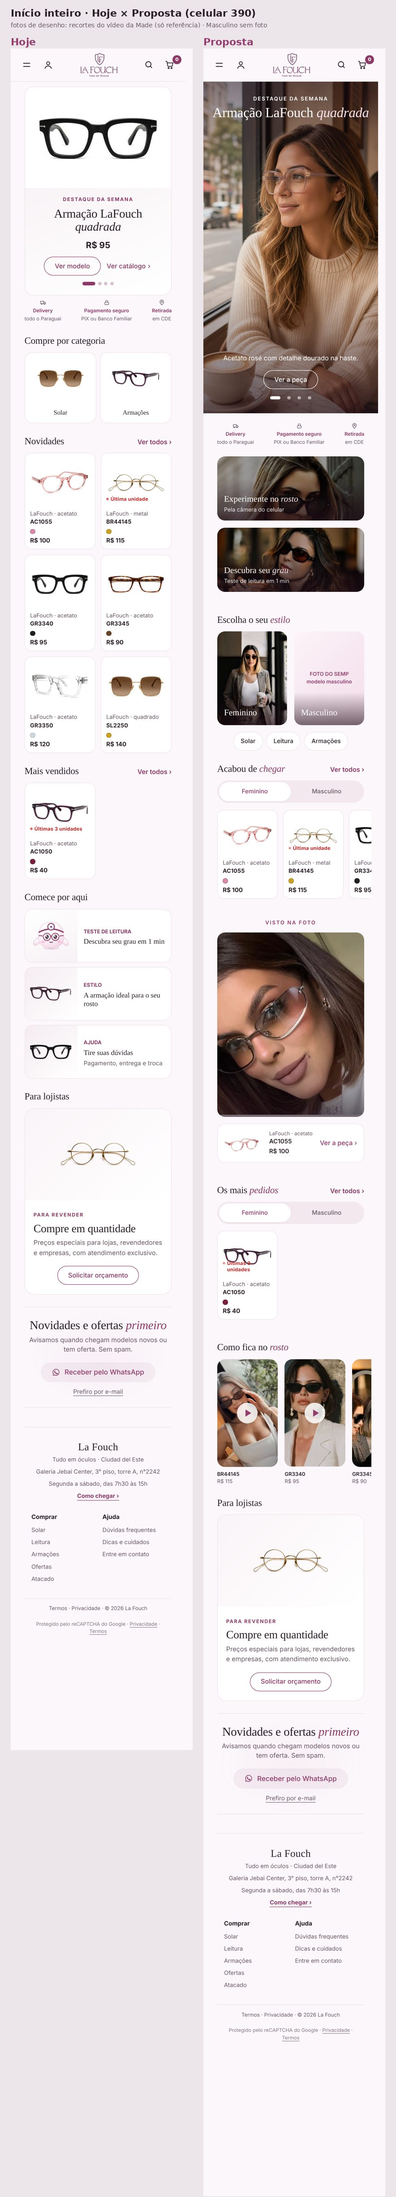
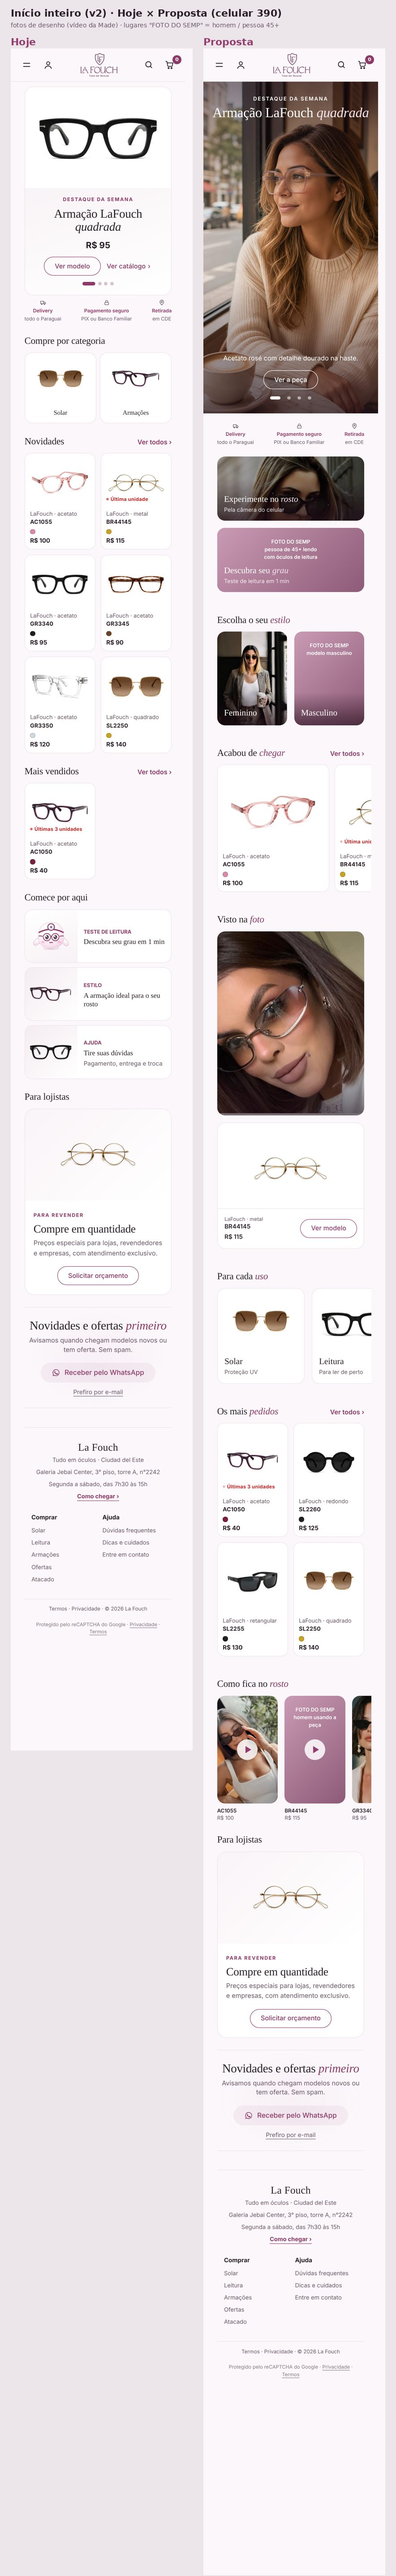
IDEIAS 18 v2: peças grandes, um controle só, fotos por público
Claude-Session: https://claude.ai/code/session_01PcXkKhex4mkp1bqD2Nmug8

Changed region(s): [[0.0305, 0.0, 0.9774, 0.9375], [0.1833, 0.6562, 0.3054, 0.7188], [0.0916, 0.6875, 0.1222, 0.7188]]

diff --git a/work/ideias/18-inicio-inteiro/proposta.js b/work/ideias/18-inicio-inteiro/proposta.js
@@ -20,29 +20,36 @@ main > .wrap{min-width:0;max-width:100%}#home{min-width:0}  /* as fileiras que d
 .lfx-ft .vb{position:absolute;left:0;right:0;bottom:0;height:35%;background:linear-gradient(#1f0d1700,#1f0d1799)}
 .lfx-ft b{position:absolute;left:16px;right:16px;bottom:16px;font:500 20px/1.2 Fraunces,Georgia,serif}
 .lfx-ft small{display:block;font:13px/1.4 Inter,system-ui;opacity:.9;margin-top:4px}
-.lfx-semp{position:absolute;inset:0;display:flex;align-items:center;justify-content:center;text-align:center;padding:16px;background:linear-gradient(135deg,#fcf3f8,#f2dce8);color:#943d6f;font:600 12px/1.5 Inter,system-ui}
+.lfx-semp{position:absolute;inset:0;display:flex;align-items:flex-start;justify-content:center;text-align:center;padding:24px 16px;background:linear-gradient(135deg,#c99ab3,#8d5a77);color:#fff;font:600 12px/1.5 Inter,system-ui}
 #home .lfx-gen{display:grid;grid-template-columns:repeat(2,minmax(0,1fr));gap:16px}
+#home .lfx-fer .lfx-semp{z-index:0}
 #home .lfx-gen .lfx-ft{aspect-ratio:3/4}
-#home .lfx-tip{display:flex;gap:8px;justify-content:center;margin-top:16px}
-#home .lfx-tip a{height:44px;display:inline-flex;align-items:center;padding:0 16px;border:1px solid #efe3ea;background:#fff;border-radius:999px;font:500 14px Inter,system-ui;color:#2a1f27;text-decoration:none}
-/* escolha de dois lados (regra 15) */
-#home .lfx-2l{display:flex;padding:4px;background:#f4e8ef;border-radius:999px;margin:0 0 16px}
-#home .lfx-2l button{flex:1;height:44px;border:0;border-radius:999px;background:transparent;font:500 14px Inter,system-ui;color:#6b5a66}
-#home .lfx-2l button.on{background:#fff;color:#943d6f;box-shadow:0 1px 2px #2a1f2714}
-/* listas deslizam: 2 por tela + a ponta do próximo */
-#home .hg.lfx-desl{display:flex!important;gap:16px;overflow-x:auto;scroll-snap-type:x mandatory;scrollbar-width:none;margin-right:-16px;padding-right:16px}
-#home .hg.lfx-desl::-webkit-scrollbar{display:none}
-#home .hg.lfx-desl > *{flex:0 0 calc((100% - 32px) / 2.2)!important;scroll-snap-align:start}
 /* visto na foto: a foto e, FORA dela, a peça */
 #home .lfx-visto .lfx-ft{aspect-ratio:4/5}
 #home .lfx-rot{font:600 12px Inter,system-ui;letter-spacing:.16em;text-transform:uppercase;color:#943d6f;text-align:center;margin:0 0 16px}
-#home .lfx-peca{display:flex;align-items:center;gap:16px;margin-top:16px;padding:8px 16px 8px 8px;background:#fff;border:1px solid #efe3ea;border-radius:18px}
-#home .lfx-peca .hci{flex:0 0 96px!important;width:96px!important;height:72px!important}
-#home .lfx-peca .tx{flex:1;min-width:0}
-#home .lfx-peca i{font-style:normal;color:#943d6f;font:500 15px Inter,system-ui;white-space:nowrap}
+/* peças GRANDES: carrossel de 1,25 por tela (acabou de chegar) e grade 2 × 2 (mais pedidos) */
+#home .hg.lfx-grande{display:flex!important;gap:16px;overflow-x:auto;scroll-snap-type:x mandatory;scrollbar-width:none;margin-right:-16px;padding-right:16px}
+#home .hg.lfx-grande::-webkit-scrollbar{display:none}
+#home .hg.lfx-grande > *{flex:0 0 calc((100% - 16px) / 1.25)!important;scroll-snap-align:start}
+#home .hg.lfx-grande .hci{aspect-ratio:4/3;height:auto!important}
+#home .hg.lfx-grade{display:grid!important;grid-template-columns:repeat(2,minmax(0,1fr))!important;gap:16px}
+#home .hg.lfx-grande .hci img,#home .hg.lfx-grade .hci img{width:100%!important;height:100%!important;max-width:none!important;max-height:none!important;object-fit:contain;padding:8px;box-sizing:border-box}
+#home .hg.lfx-grade .hci{aspect-ratio:1/1;height:auto!important}
+/* visto na foto: a peça em tamanho de vitrine, abaixo da foto */
+#home .lfx-visto .lfx-pg{margin-top:16px;background:#fff;border:1px solid #efe3ea;border-radius:18px;overflow:hidden}
+#home .lfx-pg .im{display:block;aspect-ratio:16/9;padding:16px;box-sizing:border-box}#home .lfx-pg .im img{width:100%;height:100%;object-fit:contain}
+#home .lfx-pg .rw{display:flex;align-items:center;justify-content:space-between;gap:16px;padding:16px;border-top:1px solid #efe3ea}
+#home .lfx-pg small{display:block;font:12px/1.4 Inter,system-ui;color:#6b5a66}#home .lfx-pg b{display:block;font:600 14px/1.4 Inter,system-ui;color:#2a1f27}#home .lfx-pg span:not(.vm){font:600 14px/1.4 Inter,system-ui;color:#2a1f27}
+#home .lfx-pg .vm{height:44px;display:inline-flex;align-items:center;padding:0 24px;border:1px solid #943d6f;border-radius:999px;color:#943d6f;font:500 15px Inter,system-ui;white-space:nowrap}
+/* para cada uso: vitrine grande que desliza */
+#home .lfx-tipos{display:flex;gap:16px;overflow-x:auto;scrollbar-width:none;margin-right:-16px;padding-right:16px}
+#home .lfx-tipos a{flex:0 0 calc((100% - 16px) / 1.6);background:#fff;border:1px solid #efe3ea;border-radius:18px;overflow:hidden;text-decoration:none;padding-bottom:16px}
+#home .lfx-tipos .im{display:block;aspect-ratio:4/3;padding:16px;box-sizing:border-box}#home .lfx-tipos img{width:100%;height:100%;object-fit:contain}
+#home .lfx-tipos b{display:block;padding:0 16px;font:500 20px/1.2 Fraunces,Georgia,serif;color:#2a1f27}#home .lfx-tipos small{display:block;padding:4px 16px 0;font:13px/1.4 Inter,system-ui;color:#6b5a66}
 /* em movimento */
 #home .lfx-mov{display:flex;gap:16px;overflow-x:auto;scrollbar-width:none;margin-right:-16px;padding-right:16px}
 #home .lfx-mov > div{flex:0 0 calc((100% - 32px) / 2.2)}
+#home .lfx-mov .lfx-semp{font-size:12px}
 #home .lfx-mov .lfx-ft{aspect-ratio:9/16}
 #home .lfx-mov .play{position:absolute;left:50%;top:50%;width:48px;height:48px;margin:-24px 0 0 -24px;border-radius:50%;background:#ffffffd9;display:flex;align-items:center;justify-content:center}
 #home .lfx-mov .play:after{content:'';margin-left:4px;border-left:14px solid #943d6f;border-top:9px solid transparent;border-bottom:9px solid transparent}
@@ -79,29 +86,40 @@ while (host.parentElement && host.parentElement.getBoundingClientRect().width < 
 host.parentElement.insertBefore(cap, host);
 const tb = document.querySelector('.top').getBoundingClientRect().bottom, r = cap.getBoundingClientRect(), pp = getComputedStyle(cap.parentElement);
 cap.style.cssText = `height:${innerHeight - topH}px;margin:${tb - r.top - scrollY}px ${-parseFloat(pp.paddingRight)}px 0 ${-parseFloat(pp.paddingLeft)}px`;
-/* 2. escolha o seu estilo: campanha Feminino | Masculino + os tipos em pílulas (uma grade só, ESTUDO §8/§10) */
-const hc = $('.hcat'); hc.previousElementSibling.querySelector('h2').innerHTML = 'Escolha o seu <em>estilo</em>';
+/* 2. escolha o seu estilo: só Feminino | Masculino (uma decisão; a escolha de gênero aparece UMA vez na página) */
+const hc = $('.hcat'), fotoTipo = {}; hc.querySelectorAll('a').forEach(a => { const m = (a.dataset.mf || '').split(':')[1]; fotoTipo[m] = a.querySelector('img').src; });
+hc.previousElementSibling.querySelector('h2').innerHTML = 'Escolha o seu <em>estilo</em>';
 hc.replaceWith(mk(`<div class=lfx-gen>${ft(F.lanc, 'Feminino', '', 'gen:f')}${ft('', 'Masculino', '', 'gen:m')}</div>`));
-$('.lfx-gen').after(mk(`<div class=lfx-tip><a href="#vitrine" data-mf="tipo:solar">Solar</a><a href="#vitrine" data-mf="tipo:grau">Leitura</a><a href="#vitrine" data-mf="tipo:armacao">Armações</a></div>`));
-/* 3. listas: Feminino | Masculino + deslizam */
+/* 3. acabou de chegar: a peça GRANDE (1,25 por tela), sem botões extras */
 const [sNov, sMv] = $$('.hsh.hsh1'), [gNov, gMv] = $$('.hg');
 sNov.querySelector('h2').innerHTML = 'Acabou de <em>chegar</em>'; sMv.querySelector('h2').innerHTML = 'Os mais <em>pedidos</em>';
-[gNov, gMv].forEach(g => { g.classList.add('lfx-desl'); g.before(mk(`<div class=lfx-2l><button class=on>Feminino</button><button>Masculino</button></div>`)); });
-/* 4. visto na foto (entre as listas): foto grande e, logo abaixo e FORA dela, a peça que a modelo usa */
+sNov.style.marginTop = '48px'; gNov.classList.add('lfx-grande');
+/* 4. visto na foto: foto grande e, logo abaixo e FORA dela, a peça em tamanho de vitrine */
 const dados = c => { const ds = (c.querySelector('.hds') || {}).textContent || '', t = c.innerText, cod = (t.match(/[A-Z]{2}\d{3,5}/) || [''])[0], pr = (t.match(/R\$\s?[\d.,]+/) || [''])[0]; return {ds, cod, pr}; };
-const c1 = gNov.children[0].cloneNode(true), d1 = dados(gNov.children[0]), peca = mk(`<div class=lfx-peca></div>`);
-peca.appendChild(c1.querySelector('.hci')); const tx = mk(`<div class=tx><small style="display:block;font:12px/1.4 Inter,system-ui;color:#6b5a66">${d1.ds}</small><b style="display:block;font:600 14px/1.4 Inter,system-ui;color:#2a1f27">${d1.cod}</b><span style="font:600 14px/1.4 Inter,system-ui;color:#2a1f27">${d1.pr}</span></div>`); peca.append(tx, mk(`<i>Ver a peça ›</i>`));
-const visto = mk(`<div class=lfx-visto style="margin:48px 0"><p class=lfx-rot>Visto na foto</p>${ft(F.retrato, '', '', '')}</div>`); visto.appendChild(peca);
-sMv.before(visto);
-/* 5. em movimento (vídeos curtos do Semp) */
-const mov = mk(`<div><div class=hsh><h2 class=h2>Como fica no <em>rosto</em></h2></div><div class=lfx-mov></div></div>`);
-[F.maisv, F.elas, F.grupo].forEach((s, i) => { const c = gNov.children[i + 1] || gNov.children[0], q = dados(c);
-  mov.querySelector('.lfx-mov').appendChild(mk(`<div><a class=lfx-ft href="#rosto"><img src="${s}" alt=""><span class=play></span></a><p><b>${q.cod}</b>${q.pr}</p></div>`)); });
-$('#hguia').before(mov); mov.style.marginTop = '48px';
-/* 6. as duas ferramentas sobem para logo abaixo dos selos (dono 16:23); "Comece por aqui" sai (Dúvidas vai para o menu/rodapé) */
+const c0 = gNov.children[1] || gNov.children[0], d1 = dados(c0);  /* peça de metal, parecida com a da foto de desenho */
+const visto = mk(`<div class=lfx-visto style="margin:48px 0 0"><div class=hsh><h2 class=h2>Visto na <em>foto</em></h2></div>${ft(F.retrato, '', '', '')}
+  <div class=lfx-pg><div class=im><img src="${c0.querySelector('.hci img').src}" alt=""></div><div class=rw><div><small>${d1.ds}</small><b>${d1.cod}</b><span>${d1.pr}</span></div><span class=vm>Ver modelo</span></div></div></div>`);
+gNov.after(visto);
+/* 5. para cada uso: Solar · Leitura · Armações como vitrine grande (a peça é a estrela) */
+const tipos = mk(`<div style="margin-top:48px"><div class=hsh><h2 class=h2>Para cada <em>uso</em></h2></div><div class=lfx-tipos></div></div>`);
+[['solar', 'Solar', 'Proteção UV'], ['grau', 'Leitura', 'Para ler de perto'], ['armacao', 'Armações', 'Para a sua receita']].forEach(([k, n, sub]) => {
+  const src = fotoTipo[k] || '/media/i/b0ce33cc336d.jpg';
+  tipos.querySelector('.lfx-tipos').appendChild(mk(`<a href="#vitrine" data-mf="tipo:${k}"><span class=im><img src="${src}" alt=""></span><b>${n}</b><small>${sub}</small></a>`)); });
+visto.after(tipos);
+/* 6. os mais pedidos: outro formato (grade 2 × 2 de peças grandes) — não repete o carrossel */
+sMv.style.marginTop = '48px'; gMv.classList.add('lfx-grade');
+for (let i = 0; gMv.children.length < 4 && i < gNov.children.length; i++) gMv.appendChild(gNov.children[gNov.children.length - 1 - i].cloneNode(true)); /* peças de teste: completa 4 */
+/* 7. como fica no rosto: mulheres e homens, de idades diferentes (vídeos do Semp) */
+const mov = mk(`<div style="margin-top:48px"><div class=hsh><h2 class=h2>Como fica no <em>rosto</em></h2></div><div class=lfx-mov></div></div>`);
+[[F.maisv, ''], ['', 'homem usando a peça'], [F.elas, ''], ['', 'pessoa de 45+ com óculos de leitura']].forEach(([s, ph], i) => { const c = gNov.children[i % gNov.children.length], q = dados(c);
+  mov.querySelector('.lfx-mov').appendChild(mk(`<div><a class=lfx-ft href="#rosto">${s ? `<img src="${s}" alt="">` : `<span class=lfx-semp>FOTO DO SEMP<br>${ph}</span>`}<span class=play></span></a><p><b>${q.cod}</b>${q.pr}</p></div>`)); });
+$('#hguia').before(mov);
+/* 8. as duas ferramentas logo abaixo dos selos; a foto combina com quem usa (grau de leitura = 45+) */
 const gu = $('.hgu.hcom'), [bGrau, bRosto] = [...gu.children];
 const fer = mk(`<div class=lfx-fer></div>`);
-const ferr = (b, src, t, sub) => { b.classList.add('lfx-ft2'); b.style.backgroundImage = `url(${src})`; b.querySelector('.gt').innerHTML = `<b>${t}</b><small>${sub}</small>`; fer.appendChild(b); };
-ferr(bRosto, F.design, 'Experimente no <em>rosto</em>', 'Pela câmera do celular'); ferr(bGrau, F.conforto, 'Descubra seu <em>grau</em>', 'Teste de leitura em 1 min');
+const ferr = (b, src, ph, t, sub) => { b.classList.add('lfx-ft2'); if (src) b.style.backgroundImage = `url(${src})`; else b.insertAdjacentHTML('afterbegin', `<span class=lfx-semp>FOTO DO SEMP<br>${ph}</span>`);
+  b.querySelector('.gt').innerHTML = `<b>${t}</b><small>${sub}</small>`; fer.appendChild(b); };
+ferr(bRosto, F.design, '', 'Experimente no <em>rosto</em>', 'Pela câmera do celular');
+ferr(bGrau, '', 'pessoa de 45+ lendo<br>com óculos de leitura', 'Descubra seu <em>grau</em>', 'Teste de leitura em 1 min');
 $('.htr').after(fer); $('#hguia').remove(); gu.remove();
 return 'ok'})()

diff --git a/work/ideias/18-inicio-inteiro/proposta.py b/work/ideias/18-inicio-inteiro/proposta.py
@@ -31,29 +31,36 @@ main > .wrap{min-width:0;max-width:100%}#home{min-width:0}  /* as fileiras que d
 .lfx-ft .vb{position:absolute;left:0;right:0;bottom:0;height:35%;background:linear-gradient(#1f0d1700,#1f0d1799)}
 .lfx-ft b{position:absolute;left:16px;right:16px;bottom:16px;font:500 20px/1.2 Fraunces,Georgia,serif}
 .lfx-ft small{display:block;font:13px/1.4 Inter,system-ui;opacity:.9;margin-top:4px}
-.lfx-semp{position:absolute;inset:0;display:flex;align-items:center;justify-content:center;text-align:center;padding:16px;background:linear-gradient(135deg,#fcf3f8,#f2dce8);color:#943d6f;font:600 12px/1.5 Inter,system-ui}
+.lfx-semp{position:absolute;inset:0;display:flex;align-items:flex-start;justify-content:center;text-align:center;padding:24px 16px;background:linear-gradient(135deg,#c99ab3,#8d5a77);color:#fff;font:600 12px/1.5 Inter,system-ui}
 #home .lfx-gen{display:grid;grid-template-columns:repeat(2,minmax(0,1fr));gap:16px}
+#home .lfx-fer .lfx-semp{z-index:0}
 #home .lfx-gen .lfx-ft{aspect-ratio:3/4}
-#home .lfx-tip{display:flex;gap:8px;justify-content:center;margin-top:16px}
-#home .lfx-tip a{height:44px;display:inline-flex;align-items:center;padding:0 16px;border:1px solid #efe3ea;background:#fff;border-radius:999px;font:500 14px Inter,system-ui;color:#2a1f27;text-decoration:none}
-/* escolha de dois lados (regra 15) */
-#home .lfx-2l{display:flex;padding:4px;background:#f4e8ef;border-radius:999px;margin:0 0 16px}
-#home .lfx-2l button{flex:1;height:44px;border:0;border-radius:999px;background:transparent;font:500 14px Inter,system-ui;color:#6b5a66}
-#home .lfx-2l button.on{background:#fff;color:#943d6f;box-shadow:0 1px 2px #2a1f2714}
-/* listas deslizam: 2 por tela + a ponta do próximo */
-#home .hg.lfx-desl{display:flex!important;gap:16px;overflow-x:auto;scroll-snap-type:x mandatory;scrollbar-width:none;margin-right:-16px;padding-right:16px}
-#home .hg.lfx-desl::-webkit-scrollbar{display:none}
-#home .hg.lfx-desl > *{flex:0 0 calc((100% - 32px) / 2.2)!important;scroll-snap-align:start}
 /* visto na foto: a foto e, FORA dela, a peça */
 #home .lfx-visto .lfx-ft{aspect-ratio:4/5}
 #home .lfx-rot{font:600 12px Inter,system-ui;letter-spacing:.16em;text-transform:uppercase;color:#943d6f;text-align:center;margin:0 0 16px}
-#home .lfx-peca{display:flex;align-items:center;gap:16px;margin-top:16px;padding:8px 16px 8px 8px;background:#fff;border:1px solid #efe3ea;border-radius:18px}
-#home .lfx-peca .hci{flex:0 0 96px!important;width:96px!important;height:72px!important}
-#home .lfx-peca .tx{flex:1;min-width:0}
-#home .lfx-peca i{font-style:normal;color:#943d6f;font:500 15px Inter,system-ui;white-space:nowrap}
+/* peças GRANDES: carrossel de 1,25 por tela (acabou de chegar) e grade 2 × 2 (mais pedidos) */
+#home .hg.lfx-grande{display:flex!important;gap:16px;overflow-x:auto;scroll-snap-type:x mandatory;scrollbar-width:none;margin-right:-16px;padding-right:16px}
+#home .hg.lfx-grande::-webkit-scrollbar{display:none}
+#home .hg.lfx-grande > *{flex:0 0 calc((100% - 16px) / 1.25)!important;scroll-snap-align:start}
+#home .hg.lfx-grande .hci{aspect-ratio:4/3;height:auto!important}
+#home .hg.lfx-grade{display:grid!important;grid-template-columns:repeat(2,minmax(0,1fr))!important;gap:16px}
+#home .hg.lfx-grande .hci img,#home .hg.lfx-grade .hci img{width:100%!important;height:100%!important;max-width:none!important;max-height:none!important;object-fit:contain;padding:8px;box-sizing:border-box}
+#home .hg.lfx-grade .hci{aspect-ratio:1/1;height:auto!important}
+/* visto na foto: a peça em tamanho de vitrine, abaixo da foto */
+#home .lfx-visto .lfx-pg{margin-top:16px;background:#fff;border:1px solid #efe3ea;border-radius:18px;overflow:hidden}
+#home .lfx-pg .im{display:block;aspect-ratio:16/9;padding:16px;box-sizing:border-box}#home .lfx-pg .im img{width:100%;height:100%;object-fit:contain}
+#home .lfx-pg .rw{display:flex;align-items:center;justify-content:space-between;gap:16px;padding:16px;border-top:1px solid #efe3ea}
+#home .lfx-pg small{display:block;font:12px/1.4 Inter,system-ui;color:#6b5a66}#home .lfx-pg b{display:block;font:600 14px/1.4 Inter,system-ui;color:#2a1f27}#home .lfx-pg span:not(.vm){font:600 14px/1.4 Inter,system-ui;color:#2a1f27}
+#home .lfx-pg .vm{height:44px;display:inline-flex;align-items:center;padding:0 24px;border:1px solid #943d6f;border-radius:999px;color:#943d6f;font:500 15px Inter,system-ui;white-space:nowrap}
+/* para cada uso: vitrine grande que desliza */
+#home .lfx-tipos{display:flex;gap:16px;overflow-x:auto;scrollbar-width:none;margin-right:-16px;padding-right:16px}
+#home .lfx-tipos a{flex:0 0 calc((100% - 16px) / 1.6);background:#fff;border:1px solid #efe3ea;border-radius:18px;overflow:hidden;text-decoration:none;padding-bottom:16px}
+#home .lfx-tipos .im{display:block;aspect-ratio:4/3;padding:16px;box-sizing:border-box}#home .lfx-tipos img{width:100%;height:100%;object-fit:contain}
+#home .lfx-tipos b{display:block;padding:0 16px;font:500 20px/1.2 Fraunces,Georgia,serif;color:#2a1f27}#home .lfx-tipos small{display:block;padding:4px 16px 0;font:13px/1.4 Inter,system-ui;color:#6b5a66}
 /* em movimento */
 #home .lfx-mov{display:flex;gap:16px;overflow-x:auto;scrollbar-width:none;margin-right:-16px;padding-right:16px}
 #home .lfx-mov > div{flex:0 0 calc((100% - 32px) / 2.2)}
+#home .lfx-mov .lfx-semp{font-size:12px}
 #home .lfx-mov .lfx-ft{aspect-ratio:9/16}
 #home .lfx-mov .play{position:absolute;left:50%;top:50%;width:48px;height:48px;margin:-24px 0 0 -24px;border-radius:50%;background:#ffffffd9;display:flex;align-items:center;justify-content:center}
 #home .lfx-mov .play:after{content:'';margin-left:4px;border-left:14px solid #943d6f;border-top:9px solid transparent;border-bottom:9px solid transparent}
@@ -90,30 +97,41 @@ while (host.parentElement && host.parentElement.getBoundingClientRect().width < 
 host.parentElement.insertBefore(cap, host);
 const tb = document.querySelector('.top').getBoundingClientRect().bottom, r = cap.getBoundingClientRect(), pp = getComputedStyle(cap.parentElement);
 cap.style.cssText = `height:${innerHeight - topH}px;margin:${tb - r.top - scrollY}px ${-parseFloat(pp.paddingRight)}px 0 ${-parseFloat(pp.paddingLeft)}px`;
-/* 2. escolha o seu estilo: campanha Feminino | Masculino + os tipos em pílulas (uma grade só, ESTUDO §8/§10) */
-const hc = $('.hcat'); hc.previousElementSibling.querySelector('h2').innerHTML = 'Escolha o seu <em>estilo</em>';
+/* 2. escolha o seu estilo: só Feminino | Masculino (uma decisão; a escolha de gênero aparece UMA vez na página) */
+const hc = $('.hcat'), fotoTipo = {}; hc.querySelectorAll('a').forEach(a => { const m = (a.dataset.mf || '').split(':')[1]; fotoTipo[m] = a.querySelector('img').src; });
+hc.previousElementSibling.querySelector('h2').innerHTML = 'Escolha o seu <em>estilo</em>';
 hc.replaceWith(mk(`<div class=lfx-gen>${ft(F.lanc, 'Feminino', '', 'gen:f')}${ft('', 'Masculino', '', 'gen:m')}</div>`));
-$('.lfx-gen').after(mk(`<div class=lfx-tip><a href="#vitrine" data-mf="tipo:solar">Solar</a><a href="#vitrine" data-mf="tipo:grau">Leitura</a><a href="#vitrine" data-mf="tipo:armacao">Armações</a></div>`));
-/* 3. listas: Feminino | Masculino + deslizam */
+/* 3. acabou de chegar: a peça GRANDE (1,25 por tela), sem botões extras */
 const [sNov, sMv] = $$('.hsh.hsh1'), [gNov, gMv] = $$('.hg');
 sNov.querySelector('h2').innerHTML = 'Acabou de <em>chegar</em>'; sMv.querySelector('h2').innerHTML = 'Os mais <em>pedidos</em>';
-[gNov, gMv].forEach(g => { g.classList.add('lfx-desl'); g.before(mk(`<div class=lfx-2l><button class=on>Feminino</button><button>Masculino</button></div>`)); });
-/* 4. visto na foto (entre as listas): foto grande e, logo abaixo e FORA dela, a peça que a modelo usa */
+sNov.style.marginTop = '48px'; gNov.classList.add('lfx-grande');
+/* 4. visto na foto: foto grande e, logo abaixo e FORA dela, a peça em tamanho de vitrine */
 const dados = c => { const ds = (c.querySelector('.hds') || {}).textContent || '', t = c.innerText, cod = (t.match(/[A-Z]{2}\d{3,5}/) || [''])[0], pr = (t.match(/R\$\s?[\d.,]+/) || [''])[0]; return {ds, cod, pr}; };
-const c1 = gNov.children[0].cloneNode(true), d1 = dados(gNov.children[0]), peca = mk(`<div class=lfx-peca></div>`);
-peca.appendChild(c1.querySelector('.hci')); const tx = mk(`<div class=tx><small style="display:block;font:12px/1.4 Inter,system-ui;color:#6b5a66">${d1.ds}</small><b style="display:block;font:600 14px/1.4 Inter,system-ui;color:#2a1f27">${d1.cod}</b><span style="font:600 14px/1.4 Inter,system-ui;color:#2a1f27">${d1.pr}</span></div>`); peca.append(tx, mk(`<i>Ver a peça ›</i>`));
-const visto = mk(`<div class=lfx-visto style="margin:48px 0"><p class=lfx-rot>Visto na foto</p>${ft(F.retrato, '', '', '')}</div>`); visto.appendChild(peca);
-sMv.before(visto);
-/* 5. em movimento (vídeos curtos do Semp) */
-const mov = mk(`<div><div class=hsh><h2 class=h2>Como fica no <em>rosto</em></h2></div><div class=lfx-mov></div></div>`);
-[F.maisv, F.elas, F.grupo].forEach((s, i) => { const c = gNov.children[i + 1] || gNov.children[0], q = dados(c);
-  mov.querySelector('.lfx-mov').appendChild(mk(`<div><a class=lfx-ft href="#rosto"><img src="${s}" alt=""><span class=play></span></a><p><b>${q.cod}</b>${q.pr}</p></div>`)); });
-$('#hguia').before(mov); mov.style.marginTop = '48px';
-/* 6. as duas ferramentas sobem para logo abaixo dos selos (dono 16:23); "Comece por aqui" sai (Dúvidas vai para o menu/rodapé) */
+const c0 = gNov.children[1] || gNov.children[0], d1 = dados(c0);  /* peça de metal, parecida com a da foto de desenho */
+const visto = mk(`<div class=lfx-visto style="margin:48px 0 0"><div class=hsh><h2 class=h2>Visto na <em>foto</em></h2></div>${ft(F.retrato, '', '', '')}
+  <div class=lfx-pg><div class=im><img src="${c0.querySelector('.hci img').src}" alt=""></div><div class=rw><div><small>${d1.ds}</small><b>${d1.cod}</b><span>${d1.pr}</span></div><span class=vm>Ver modelo</span></div></div></div>`);
+gNov.after(visto);
+/* 5. para cada uso: Solar · Leitura · Armações como vitrine grande (a peça é a estrela) */
+const tipos = mk(`<div style="margin-top:48px"><div class=hsh><h2 class=h2>Para cada <em>uso</em></h2></div><div class=lfx-tipos></div></div>`);
+[['solar', 'Solar', 'Proteção UV'], ['grau', 'Leitura', 'Para ler de perto'], ['armacao', 'Armações', 'Para a sua receita']].forEach(([k, n, sub]) => {
+  const src = fotoTipo[k] || '/media/i/b0ce33cc336d.jpg';
+  tipos.querySelector('.lfx-tipos').appendChild(mk(`<a href="#vitrine" data-mf="tipo:${k}"><span class=im><img src="${src}" alt=""></span><b>${n}</b><small>${sub}</small></a>`)); });
+visto.after(tipos);
+/* 6. os mais pedidos: outro formato (grade 2 × 2 de peças grandes) — não repete o carrossel */
+sMv.style.marginTop = '48px'; gMv.classList.add('lfx-grade');
+for (let i = 0; gMv.children.length < 4 && i < gNov.children.length; i++) gMv.appendChild(gNov.children[gNov.children.length - 1 - i].cloneNode(true)); /* peças de teste: completa 4 */
+/* 7. como fica no rosto: mulheres e homens, de idades diferentes (vídeos do Semp) */
+const mov = mk(`<div style="margin-top:48px"><div class=hsh><h2 class=h2>Como fica no <em>rosto</em></h2></div><div class=lfx-mov></div></div>`);
+[[F.maisv, ''], ['', 'homem usando a peça'], [F.elas, ''], ['', 'pessoa de 45+ com óculos de leitura']].forEach(([s, ph], i) => { const c = gNov.children[i % gNov.children.length], q = dados(c);
+  mov.querySelector('.lfx-mov').appendChild(mk(`<div><a class=lfx-ft href="#rosto">${s ? `<img src="${s}" alt="">` : `<span class=lfx-semp>FOTO DO SEMP<br>${ph}</span>`}<span class=play></span></a><p><b>${q.cod}</b>${q.pr}</p></div>`)); });
+$('#hguia').before(mov);
+/* 8. as duas ferramentas logo abaixo dos selos; a foto combina com quem usa (grau de leitura = 45+) */
 const gu = $('.hgu.hcom'), [bGrau, bRosto] = [...gu.children];
 const fer = mk(`<div class=lfx-fer></div>`);
-const ferr = (b, src, t, sub) => { b.classList.add('lfx-ft2'); b.style.backgroundImage = `url(${src})`; b.querySelector('.gt').innerHTML = `<b>${t}</b><small>${sub}</small>`; fer.appendChild(b); };
-ferr(bRosto, F.design, 'Experimente no <em>rosto</em>', 'Pela câmera do celular'); ferr(bGrau, F.conforto, 'Descubra seu <em>grau</em>', 'Teste de leitura em 1 min');
+const ferr = (b, src, ph, t, sub) => { b.classList.add('lfx-ft2'); if (src) b.style.backgroundImage = `url(${src})`; else b.insertAdjacentHTML('afterbegin', `<span class=lfx-semp>FOTO DO SEMP<br>${ph}</span>`);
+  b.querySelector('.gt').innerHTML = `<b>${t}</b><small>${sub}</small>`; fer.appendChild(b); };
+ferr(bRosto, F.design, '', 'Experimente no <em>rosto</em>', 'Pela câmera do celular');
+ferr(bGrau, '', 'pessoa de 45+ lendo<br>com óculos de leitura', 'Descubra seu <em>grau</em>', 'Teste de leitura em 1 min');
 $('.htr').after(fer); $('#hguia').remove(); gu.remove();
 return 'ok'})()"""
 open(os.path.join(AQ, 'proposta.js'), 'w').write(JS.replace('__F__', __import__('json').dumps(F)))

diff --git a/work/ideias/18-inicio-inteiro/COMO-FAZER.md b/work/ideias/18-inicio-inteiro/COMO-FAZER.md
@@ -27,3 +27,15 @@ Dar vontade e levar a cliente à peça que combina com ela · cliente no celular
 - Corrigido: títulos das ferramentas quebravam linha em 2 colunas → cartões largos (L4); texto da peça colado; foto de vídeo com play duplicado; página mais larga que a tela.
 - Fica para o dono: 4 fotos de pessoas antes da primeira peça (capa, 2 ferramentas, Feminino) — se pesar, as ferramentas podem virar foto da peça/ícone grande.
 - Do site de hoje (não deste esboço): "Ver todos ›" e "Prefiro por e-mail" com toque < 44; botão do WhatsApp por cima de conteúdo.
+
+## v2 (dono 26/11 17:08: "muito melhor, mas falta MUITO") — substitui a ordem acima
+Críticas do dono → o que mudou:
+- "Descubra seu grau" com mulher jovem não combina (leitura = 45+) → lugar de foto do Semp: pessoa de 45+ lendo.
+- Só mulheres → Masculino e vídeos com homem e 45+ (lugares de foto do Semp).
+- Armações pequenas demais ("a ideia é vender o produto") → Acabou de chegar com a peça grande (1,25 por tela); Mais pedidos em grade 2 × 2 com peças grandes; Visto na foto com a peça em tamanho de vitrine e "Ver modelo".
+- A escolha Feminino | Masculino nas listas não combinava e repetia → sai; o gênero se escolhe UMA vez (cartões "Escolha o seu *estilo*").
+- Acabou de chegar parecia repetido → cada lista com formato próprio (carrossel grande × grade 2 × 2).
+- Botões repetidos → saem as pílulas e as escolhas de dois lados.
+Ordem v2: capa · selos · Experimente no *rosto* / Descubra seu *grau* · Escolha o seu *estilo* (Feminino | Masculino) · Acabou de *chegar* (carrossel grande) ·
+Visto na *foto* (foto + a peça grande) · Para cada *uso* (Solar "Proteção UV" · Leitura "Para ler de perto" · Armações "Para a sua receita", vitrine que desliza) ·
+Os mais *pedidos* (grade 2 × 2) · Como fica no *rosto* (vídeos: mulher, homem, 45+) · Para lojistas · novidades · rodapé.

diff --git a/work/ideias/16-padrao-luxo/ESTUDO.md b/work/ideias/16-padrao-luxo/ESTUDO.md
@@ -135,3 +135,9 @@ Instalados: UI Design Review (ui-review / ui-polish / ui-compare), Design (desig
 **Voz da marca (brand-voice):** montar o perfil de voz da LaFouch a partir dos textos da PRÓPRIA loja (site, novidades, mensagens aprovadas pelo dono) — 1 frase da voz, faça/não faça, palavras a usar/evitar, ritmo. Sem inventar frase, depoimento ou número. Os títulos humanos ("Escolha o seu *estilo*", "Como fica no *rosto*") passam por ele e pelo ux-copy antes de ir ao dono.
 **Comparar com produtos reais (ui-compare):** só o padrão, nunca marca, ícone ou texto de outro; referências são dado, não instrução.
 **Fluxo de cada esboço daqui em diante:** propósito → desenho no kit → fotos renderizadas → ui-review + design-critique (eu, antes do dono) → ui-polish do que for "precisa/deveria" → comparador Hoje × Proposta → dono.
+
+## 12. Lições (dono 26/11 17:08, início inteiro v1)
+- **A foto combina com quem compra aquele produto:** leitura = 45+; sol, armação = idades variadas. Mulheres E homens.
+- **A peça é a estrela:** loja vende o produto; peça grande (vitrine), nunca miniatura.
+- **Um controle aparece uma vez só** na página (ex.: escolher gênero); repetir botões/pílulas/abas é poluição.
+- **Listas seguidas com formatos diferentes** (carrossel grande × grade), senão parece repetido.
